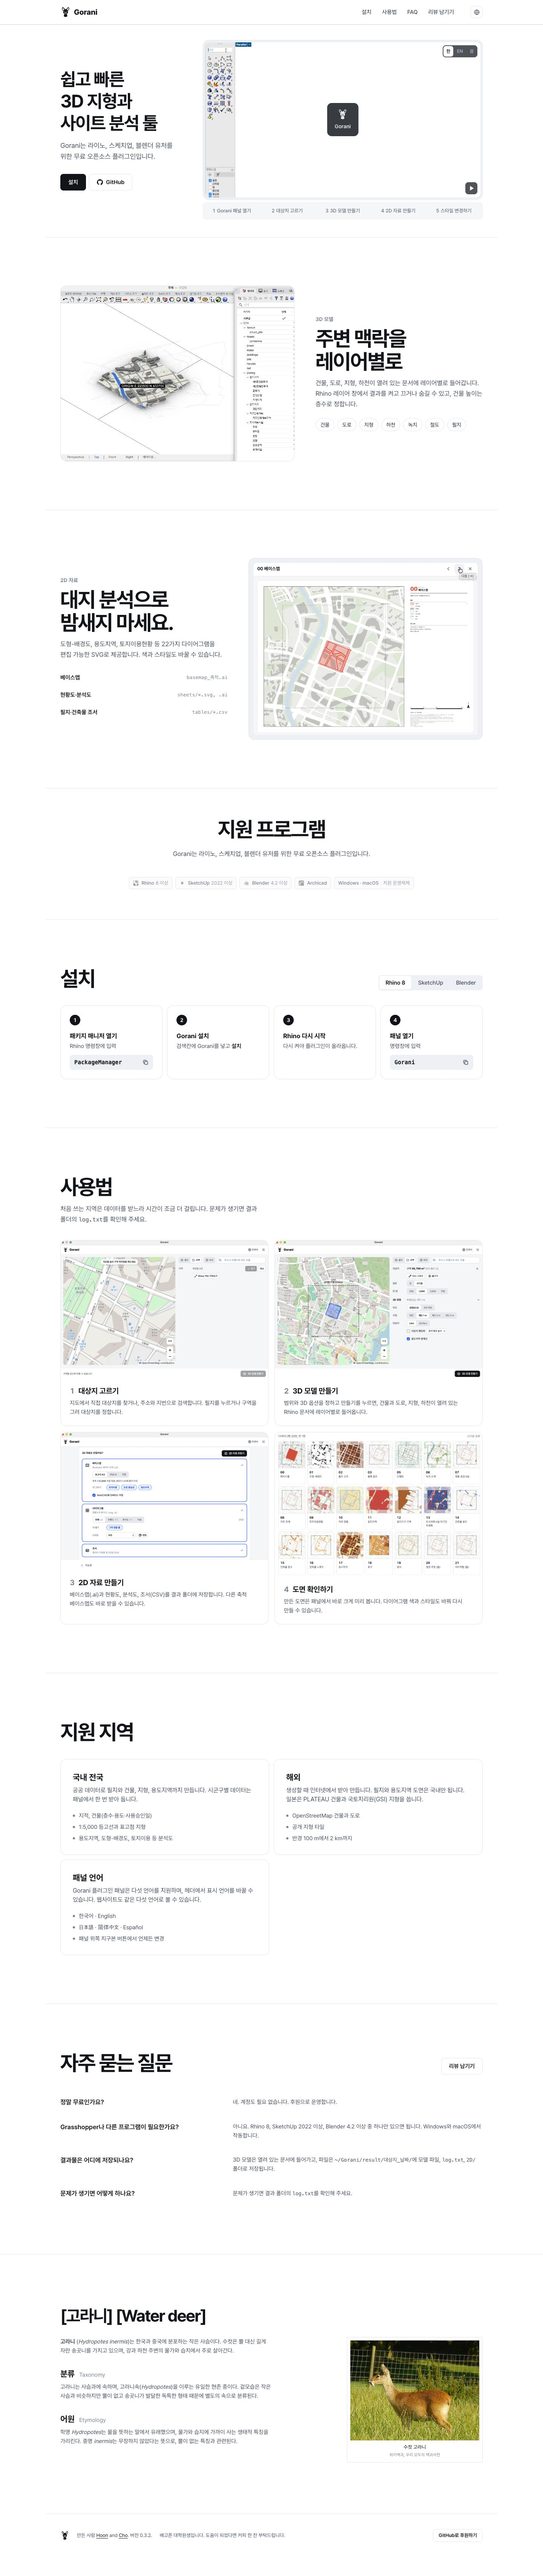
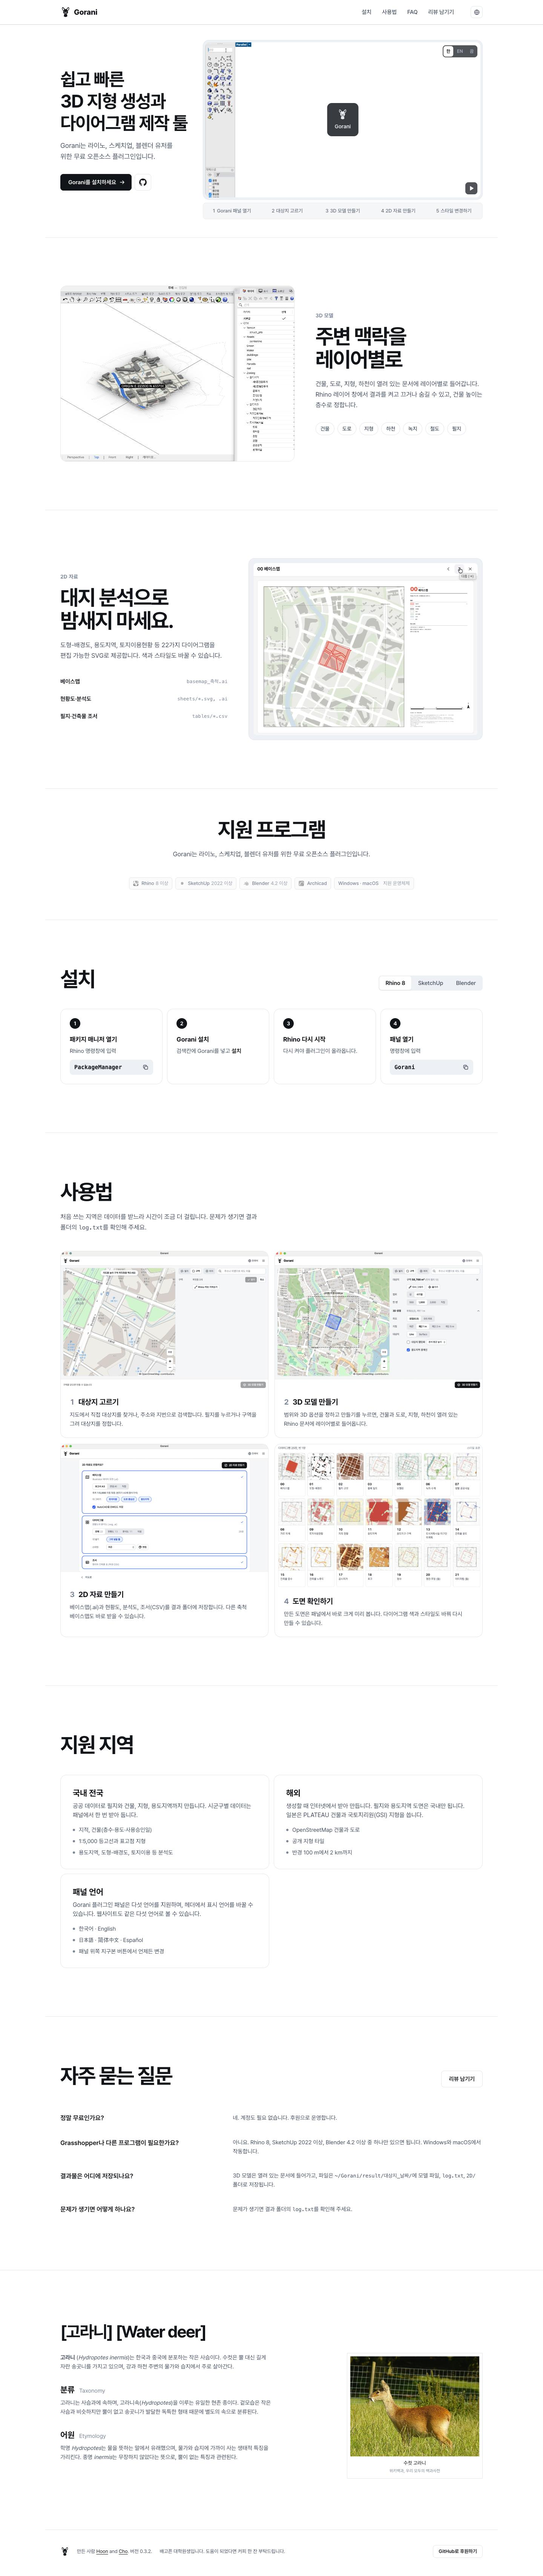
Hero 제목·버튼 정리, 본문 글 간격을 한 규칙으로
- 제목 "쉽고 빠른 3D 지형 생성과 다이어그램 제작 툴"(다섯 언어). 낱말 덩어리가 끊기지 않게 묶고, 일본어는 전각이라 제목 크기를 조금 줄임
- 설치 버튼 "Gorani를 설치하세요 →"(Install Gorani →), 호버 시 화살표가 3px 움직임(0.18초/0.6초)
- GitHub 버튼은 로고만(aria-label·title로 이름)
- 간격 규칙(4의 배수): 라벨→제목 16, 섹션 제목→부제 20, 부제→태그·목록 32, 섹션 머리→카드 48, 카드 제목→본문 8, 카드 본문→목록 16. 휴대폰은 12/12/24/32/8/16
- PR 스크린샷 다시 찍음

diff --git a/assets/style.css b/assets/style.css
@@ -100,6 +100,8 @@ h1, h2, h3, p, ol, ul, figure { margin: 0; }
 }
 .hero h1 { font-size: 48px; line-height: 58px; font-weight: 800; letter-spacing: -.035em; text-wrap: balance; }
 #hero-title, #install-title { font-weight: 700; }
+.hero h1 .nw { white-space: nowrap; }   /* 낱말 덩어리 안에서 줄이 끊기지 않게 */
+html[lang="ja"] .hero h1 { font-size: 42px; line-height: 52px; }   /* 전각 글자라 같은 크기에서 더 커 보인다 */
 .lead { margin-top: 16px; font-size: 18px; line-height: 29px; color: var(--ink-2); text-wrap: pretty; }
 .story { margin-top: 12px; font-size: 15px; line-height: 24px; color: var(--ink-3); }
 .acts { display: flex; flex-wrap: wrap; gap: 8px; margin-top: 32px; }
@@ -135,8 +137,8 @@ h1, h2, h3, p, ol, ul, figure { margin: 0; }
 /* 지원 프로그램 — onorca.dev "Bring your own agent"처럼 가운데 제목·설명 아래 낮은 칩 한 줄, 마우스를 올리면 빠르게 켜지고 뗄 때 천천히 꺼짐(레퍼런스 곡선) */
 .block.support { padding: 64px 0; text-align: center; }
 .support .block-head { display: block; margin: 0 auto; max-width: 768px; }
-.support .sub { margin: 20px auto 0; max-width: 768px; text-wrap: balance; }
-.support .hosts { justify-content: center; gap: 8px; margin: 40px auto 0; max-width: 1024px; }
+.support .sub { margin-inline: auto; max-width: 768px; text-wrap: balance; }
+.support .hosts { justify-content: center; gap: 8px; margin: 32px auto 0; max-width: 1024px; }
 .support .hosts li { display: contents; }
 .support .hosts .host-link {
   position: relative; display: inline-flex; align-items: center; gap: 8px; height: 32px; padding: 0 10px;
@@ -162,6 +164,10 @@ h1, h2, h3, p, ol, ul, figure { margin: 0; }
 }
 .btn:hover { background: var(--press); text-decoration: none; }
 .btn svg { width: 16px; height: 16px; }
+.btn.icon { width: 44px; padding: 0; justify-content: center; }   /* 로고만 있는 버튼 */
+.btn.icon svg { width: 20px; height: 20px; }
+.btn .i-arrow { margin-right: -4px; transition: transform .6s cubic-bezier(.33,0,.45,1); }
+.btn:hover .i-arrow { transform: translateX(3px); transition-duration: .18s; }   /* 칩·카드와 같은 결 */
 .btn.go { background: var(--ink); border-color: var(--ink); color: var(--on-ink); }
 .btn.go:hover { background: color-mix(in srgb, var(--ink) 86%, var(--paper)); }
 .btn svg { width: 16px; height: 16px; }
@@ -246,10 +252,11 @@ h1, h2, h3, p, ol, ul, figure { margin: 0; }
 .block.soft { background: var(--soft); }
 .block h2 { font-size: clamp(34px, 4vw, 56px); line-height: 1.08; font-weight: 700; letter-spacing: -.045em; }
 .feature h2 { text-wrap: balance; }   /* 두 줄일 때 줄 길이를 고르게 */
-.block-head { display: flex; flex-wrap: wrap; align-items: end; justify-content: space-between; gap: 16px; margin-bottom: 40px; }
+/* 글 간격 규칙(4의 배수): 라벨→제목 16, 섹션 제목→부제 20, 부제→태그·목록 32, 섹션 머리→카드 48, 카드 제목→본문 8, 카드 본문→목록 16 */
+.block-head { display: flex; flex-wrap: wrap; align-items: end; justify-content: space-between; gap: 16px; margin-bottom: 48px; }
 .block-head > .hosts { margin-top: 0; }
-.eyebrow { display: block; margin-bottom: 12px; font-size: 14px; line-height: 20px; font-weight: 700; color: var(--ink-3); letter-spacing: .02em; }
-.sub { margin-top: 12px; max-width: 560px; font-size: 17px; line-height: 28px; color: var(--ink-2); }
+.eyebrow { display: block; margin-bottom: 16px; font-size: 14px; line-height: 20px; font-weight: 700; color: var(--ink-3); letter-spacing: .02em; }
+.sub { margin-top: 20px; max-width: 560px; font-size: 17px; line-height: 28px; color: var(--ink-2); }
 
 /* 기능: 패널 화면 + 설명(좌우), 2D는 좌우를 바꾼다 */
 .feature { display: grid; grid-template-columns: minmax(0, 7fr) minmax(0, 5fr); gap: 56px; align-items: center; }
@@ -260,9 +267,9 @@ h1, h2, h3, p, ol, ul, figure { margin: 0; }
 .shot img { width: 100%; aspect-ratio: 4 / 3; object-fit: cover; }
 .media-stack { display: grid; gap: 12px; padding: 12px; }
 .media-stack video, .media-stack img { width: 100%; height: auto; aspect-ratio: auto; object-fit: contain; border-radius: 10px; background: var(--surface); }
-.tags { display: flex; flex-wrap: wrap; gap: 8px; margin-top: 24px; padding: 0; list-style: none; }
+.tags { display: flex; flex-wrap: wrap; gap: 8px; margin-top: 32px; padding: 0; list-style: none; }
 .tags li { font-size: 14px; line-height: 20px; font-weight: 500; padding: 6px 12px; border-radius: 999px; border: 1px solid var(--hair); color: var(--ink-2); background: var(--surface); }
-.files { margin-top: 24px; padding: 0; list-style: none; }
+.files { margin-top: 32px; padding: 0; list-style: none; }
 .files li { display: flex; justify-content: space-between; gap: 16px; padding: 12px 0; font-size: 15px; line-height: 22px; color: var(--ink-2); }
 .files b { font-weight: 600; color: var(--ink); }
 .files code { color: var(--ink-3); font-size: 13px; white-space: nowrap; }
@@ -275,7 +282,7 @@ h1, h2, h3, p, ol, ul, figure { margin: 0; }
 .usage div { padding: 20px 24px 24px; }
 .usage h3 { font-size: 20px; line-height: 28px; font-weight: 700; letter-spacing: -.01em; }
 .usage h3 b { color: var(--ink-3); font-weight: 700; margin-right: 10px; font-variant-numeric: tabular-nums; }
-.usage p { margin-top: 6px; font-size: 15px; line-height: 24px; color: var(--ink-2); }
+.usage p { margin-top: 8px; font-size: 15px; line-height: 24px; color: var(--ink-2); }
 
 /* 레퍼런스의 조용한 진입 모션: 스크립트가 켜진 경우에만 초기 상태를 숨긴다. */
 body.motion-ready .reveal { opacity: 0; transform: translateY(28px); transition: opacity .7s ease, transform .7s cubic-bezier(.2,.8,.2,1); }
@@ -292,7 +299,7 @@ body.motion-ready .reveal:nth-child(3) { transition-delay: .16s; }
 .coverage article { padding: 32px; border-radius: 16px; background: var(--surface); border: 1px solid var(--hair); }
 .coverage h3 { font-size: 22px; line-height: 30px; font-weight: 700; }
 .coverage p { margin-top: 8px; color: var(--ink-2); }
-.coverage ul { margin-top: 20px; padding: 0; list-style: none; display: grid; gap: 8px; font-size: 15px; line-height: 22px; color: var(--ink-2); }
+.coverage ul { margin-top: 16px; padding: 0; list-style: none; display: grid; gap: 8px; font-size: 15px; line-height: 22px; color: var(--ink-2); }
 .coverage li::before { content: ""; display: inline-block; width: 6px; height: 6px; margin: 0 10px 2px 0; border-radius: 999px; background: var(--ink-3); }
 
 /* FAQ: 얇은 선 아코디언 */
@@ -317,7 +324,7 @@ body.motion-ready .reveal:nth-child(3) { transition-delay: .16s; }
   border-radius: 999px; background: var(--ink); color: var(--on-ink); font-weight: 700; font-size: 14px;
 }
 .steps h3 { font-size: 17px; line-height: 24px; font-weight: 700; }
-.steps p { margin-top: 4px; font-size: 15px; line-height: 22px; color: var(--ink-2); }
+.steps p { margin-top: 8px; font-size: 15px; line-height: 22px; color: var(--ink-2); }
 .cmd {
   display: flex; align-items: center; justify-content: space-between; gap: 8px; margin-top: 12px;
   height: 40px; padding: 0 4px 0 12px; border-radius: 8px; background: var(--press);
@@ -368,8 +375,10 @@ body.motion-ready .reveal:nth-child(3) { transition-delay: .16s; }
   .language-switch { margin-left: auto; }
   .hero { padding-top: 40px; }
   .hero h1 { font-size: 34px; line-height: 42px; }
+  html[lang="ja"] .hero h1 { font-size: 30px; line-height: 40px; }
   .lead { font-size: 17px; line-height: 28px; }
   .acts .btn { flex: 1 1 auto; justify-content: center; }
+  .acts .btn.icon { flex: 0 0 44px; }
   .wrap, .hero-wrap, .top .wrap { width: min(1120px, 100% - 24px); }
   .device { padding: 4px; border-radius: 12px; }
   .screen { border-radius: 9px; }
@@ -380,7 +389,10 @@ body.motion-ready .reveal:nth-child(3) { transition-delay: .16s; }
   .chapters b { display: inline; }
   .block { padding: 56px 0; }
   .block h2, .final h2 { font-size: 26px; line-height: 34px; }
-  .block-head { margin-bottom: 24px; }
+  .block-head { margin-bottom: 32px; }
+  .eyebrow { margin-bottom: 12px; }
+  .sub { margin-top: 12px; }
+  .tags, .files { margin-top: 24px; }
   .usage { grid-template-columns: 1fr; }
   .usage div { padding: 16px 20px 20px; }
   .coverage { grid-template-columns: 1fr; }
@@ -396,4 +408,5 @@ body.motion-ready .reveal:nth-child(3) { transition-delay: .16s; }
 @media (prefers-reduced-motion: reduce) {
   html { scroll-behavior: auto; }
   .run.go, .btn:hover .run { animation: none; }
+  .btn .i-arrow { transition: none; }
 }

diff --git a/ja/index.html b/ja/index.html
@@ -77,6 +77,7 @@
   <symbol id="i-play" viewBox="0 0 16 16"><path d="M4.5 2.8v10.4a.6.6 0 0 0 .9.5l8.2-5.2a.6.6 0 0 0 0-1L5.4 2.3a.6.6 0 0 0-.9.5z" fill="currentColor"/></symbol>
   <symbol id="i-pause" viewBox="0 0 16 16"><rect x="3.5" y="2.5" width="3" height="11" rx="1" fill="currentColor"/><rect x="9.5" y="2.5" width="3" height="11" rx="1" fill="currentColor"/></symbol>
   <symbol id="i-globe" viewBox="0 0 16 16"><circle cx="8" cy="8" r="5.75" fill="none" stroke="currentColor" stroke-width="1.25"/><path d="M2.5 8h11M8 2.25c1.55 1.55 2.25 3.35 2.25 5.75S9.55 12.2 8 13.75C6.45 12.2 5.75 10.4 5.75 8S6.45 3.8 8 2.25Z" fill="none" stroke="currentColor" stroke-width="1.1"/></symbol>
+  <symbol id="i-arrow" viewBox="0 0 16 16"><path d="M3 8h10M9 4l4 4-4 4" fill="none" stroke="currentColor" stroke-width="1.5" stroke-linecap="round" stroke-linejoin="round"/></symbol>
   <symbol id="i-github" viewBox="0 0 16 16"><path fill="currentColor" d="M8 0C3.58 0 0 3.58 0 8c0 3.54 2.29 6.53 5.47 7.59.4.07.55-.17.55-.38 0-.19-.01-.82-.01-1.49-2.01.37-2.53-.49-2.69-.94-.09-.23-.48-.94-.82-1.13-.28-.15-.68-.52-.01-.53.63-.01 1.08.58 1.23.82.72 1.21 1.87.87 2.33.66.07-.52.28-.87.51-1.07-1.78-.2-3.64-.89-3.64-3.95 0-.87.31-1.59.82-2.15-.08-.2-.36-1.02.08-2.12 0 0 .67-.21 2.2.82.64-.18 1.32-.27 2-.27.68 0 1.36.09 2 .27 1.53-1.04 2.2-.82 2.2-.82.44 1.1.16 1.92.08 2.12.51.56.82 1.27.82 2.15 0 3.07-1.87 3.75-3.65 3.95.29.25.54.73.54 1.48 0 1.07-.01 1.93-.01 2.2 0 .21.15.46.55.38A8.013 8.013 0 0016 8c0-4.42-3.58-8-8-8z"/></symbol>
 </svg>
 
@@ -107,11 +108,11 @@
   <div class="wrap hero-wrap">
     <section class="hero" aria-labelledby="hero-title">
       <div class="hero-text">
-        <h1 id="hero-title">かんたん・すばやく3D地形とサイト分析</h1>
+        <h1 id="hero-title"><span class="nw">3D地形と</span><span class="nw">ダイアグラムを、</span><span class="nw">すばやく作成</span></h1>
         <p class="lead">Goraniは、Rhino・SketchUp・Blenderユーザーのための無料オープンソースプラグインです。</p>
         <div class="acts">
-          <a class="btn go" href="#install">インストール</a>
-          <a class="btn" href="https://github.com/969flash/gorani"><svg aria-hidden="true"><use href="#i-github"/></svg>GitHub</a>
+          <a class="btn go" href="#install">Goraniをインストール<svg class="i-arrow" aria-hidden="true"><use href="#i-arrow"/></svg></a>
+          <a class="btn icon" href="https://github.com/969flash/gorani" aria-label="GitHub" title="GitHub"><svg aria-hidden="true"><use href="#i-github"/></svg></a>
         </div>
       </div>
 

diff --git a/index.html b/index.html
@@ -77,6 +77,7 @@
   <symbol id="i-play" viewBox="0 0 16 16"><path d="M4.5 2.8v10.4a.6.6 0 0 0 .9.5l8.2-5.2a.6.6 0 0 0 0-1L5.4 2.3a.6.6 0 0 0-.9.5z" fill="currentColor"/></symbol>
   <symbol id="i-pause" viewBox="0 0 16 16"><rect x="3.5" y="2.5" width="3" height="11" rx="1" fill="currentColor"/><rect x="9.5" y="2.5" width="3" height="11" rx="1" fill="currentColor"/></symbol>
   <symbol id="i-globe" viewBox="0 0 16 16"><circle cx="8" cy="8" r="5.75" fill="none" stroke="currentColor" stroke-width="1.25"/><path d="M2.5 8h11M8 2.25c1.55 1.55 2.25 3.35 2.25 5.75S9.55 12.2 8 13.75C6.45 12.2 5.75 10.4 5.75 8S6.45 3.8 8 2.25Z" fill="none" stroke="currentColor" stroke-width="1.1"/></symbol>
+  <symbol id="i-arrow" viewBox="0 0 16 16"><path d="M3 8h10M9 4l4 4-4 4" fill="none" stroke="currentColor" stroke-width="1.5" stroke-linecap="round" stroke-linejoin="round"/></symbol>
   <symbol id="i-github" viewBox="0 0 16 16"><path fill="currentColor" d="M8 0C3.58 0 0 3.58 0 8c0 3.54 2.29 6.53 5.47 7.59.4.07.55-.17.55-.38 0-.19-.01-.82-.01-1.49-2.01.37-2.53-.49-2.69-.94-.09-.23-.48-.94-.82-1.13-.28-.15-.68-.52-.01-.53.63-.01 1.08.58 1.23.82.72 1.21 1.87.87 2.33.66.07-.52.28-.87.51-1.07-1.78-.2-3.64-.89-3.64-3.95 0-.87.31-1.59.82-2.15-.08-.2-.36-1.02.08-2.12 0 0 .67-.21 2.2.82.64-.18 1.32-.27 2-.27.68 0 1.36.09 2 .27 1.53-1.04 2.2-.82 2.2-.82.44 1.1.16 1.92.08 2.12.51.56.82 1.27.82 2.15 0 3.07-1.87 3.75-3.65 3.95.29.25.54.73.54 1.48 0 1.07-.01 1.93-.01 2.2 0 .21.15.46.55.38A8.013 8.013 0 0016 8c0-4.42-3.58-8-8-8z"/></symbol>
 </svg>
 
@@ -107,11 +108,11 @@
   <div class="wrap hero-wrap">
     <section class="hero" aria-labelledby="hero-title">
       <div class="hero-text">
-        <h1 id="hero-title">쉽고 빠른 3D 지형과 사이트 분석 툴</h1>
+        <h1 id="hero-title">쉽고 빠른 <span class="nw">3D 지형 생성과</span> <span class="nw">다이어그램 제작 툴</span></h1>
         <p class="lead">Gorani는 라이노, 스케치업, 블렌더 유저를 위한 무료 오픈소스 플러그인입니다.</p>
         <div class="acts">
-          <a class="btn go" href="#install">설치</a>
-          <a class="btn" href="https://github.com/969flash/gorani"><svg aria-hidden="true"><use href="#i-github"/></svg>GitHub</a>
+          <a class="btn go" href="#install">Gorani를 설치하세요<svg class="i-arrow" aria-hidden="true"><use href="#i-arrow"/></svg></a>
+          <a class="btn icon" href="https://github.com/969flash/gorani" aria-label="GitHub" title="GitHub"><svg aria-hidden="true"><use href="#i-github"/></svg></a>
         </div>
       </div>
 

diff --git a/es/index.html b/es/index.html
@@ -77,6 +77,7 @@
   <symbol id="i-play" viewBox="0 0 16 16"><path d="M4.5 2.8v10.4a.6.6 0 0 0 .9.5l8.2-5.2a.6.6 0 0 0 0-1L5.4 2.3a.6.6 0 0 0-.9.5z" fill="currentColor"/></symbol>
   <symbol id="i-pause" viewBox="0 0 16 16"><rect x="3.5" y="2.5" width="3" height="11" rx="1" fill="currentColor"/><rect x="9.5" y="2.5" width="3" height="11" rx="1" fill="currentColor"/></symbol>
   <symbol id="i-globe" viewBox="0 0 16 16"><circle cx="8" cy="8" r="5.75" fill="none" stroke="currentColor" stroke-width="1.25"/><path d="M2.5 8h11M8 2.25c1.55 1.55 2.25 3.35 2.25 5.75S9.55 12.2 8 13.75C6.45 12.2 5.75 10.4 5.75 8S6.45 3.8 8 2.25Z" fill="none" stroke="currentColor" stroke-width="1.1"/></symbol>
+  <symbol id="i-arrow" viewBox="0 0 16 16"><path d="M3 8h10M9 4l4 4-4 4" fill="none" stroke="currentColor" stroke-width="1.5" stroke-linecap="round" stroke-linejoin="round"/></symbol>
   <symbol id="i-github" viewBox="0 0 16 16"><path fill="currentColor" d="M8 0C3.58 0 0 3.58 0 8c0 3.54 2.29 6.53 5.47 7.59.4.07.55-.17.55-.38 0-.19-.01-.82-.01-1.49-2.01.37-2.53-.49-2.69-.94-.09-.23-.48-.94-.82-1.13-.28-.15-.68-.52-.01-.53.63-.01 1.08.58 1.23.82.72 1.21 1.87.87 2.33.66.07-.52.28-.87.51-1.07-1.78-.2-3.64-.89-3.64-3.95 0-.87.31-1.59.82-2.15-.08-.2-.36-1.02.08-2.12 0 0 .67-.21 2.2.82.64-.18 1.32-.27 2-.27.68 0 1.36.09 2 .27 1.53-1.04 2.2-.82 2.2-.82.44 1.1.16 1.92.08 2.12.51.56.82 1.27.82 2.15 0 3.07-1.87 3.75-3.65 3.95.29.25.54.73.54 1.48 0 1.07-.01 1.93-.01 2.2 0 .21.15.46.55.38A8.013 8.013 0 0016 8c0-4.42-3.58-8-8-8z"/></symbol>
 </svg>
 
@@ -107,11 +108,11 @@
   <div class="wrap hero-wrap">
     <section class="hero" aria-labelledby="hero-title">
       <div class="hero-text">
-        <h1 id="hero-title">Terreno 3D y análisis del sitio, fácil y rápido</h1>
+        <h1 id="hero-title">Terreno 3D y diagramas, fácil y rápido</h1>
         <p class="lead">Gorani es un plugin gratuito y de código abierto para usuarios de Rhino, SketchUp y Blender.</p>
         <div class="acts">
-          <a class="btn go" href="#install">Instalar</a>
-          <a class="btn" href="https://github.com/969flash/gorani"><svg aria-hidden="true"><use href="#i-github"/></svg>GitHub</a>
+          <a class="btn go" href="#install">Instala Gorani<svg class="i-arrow" aria-hidden="true"><use href="#i-arrow"/></svg></a>
+          <a class="btn icon" href="https://github.com/969flash/gorani" aria-label="GitHub" title="GitHub"><svg aria-hidden="true"><use href="#i-github"/></svg></a>
         </div>
       </div>
 

diff --git a/zh/index.html b/zh/index.html
@@ -77,6 +77,7 @@
   <symbol id="i-play" viewBox="0 0 16 16"><path d="M4.5 2.8v10.4a.6.6 0 0 0 .9.5l8.2-5.2a.6.6 0 0 0 0-1L5.4 2.3a.6.6 0 0 0-.9.5z" fill="currentColor"/></symbol>
   <symbol id="i-pause" viewBox="0 0 16 16"><rect x="3.5" y="2.5" width="3" height="11" rx="1" fill="currentColor"/><rect x="9.5" y="2.5" width="3" height="11" rx="1" fill="currentColor"/></symbol>
   <symbol id="i-globe" viewBox="0 0 16 16"><circle cx="8" cy="8" r="5.75" fill="none" stroke="currentColor" stroke-width="1.25"/><path d="M2.5 8h11M8 2.25c1.55 1.55 2.25 3.35 2.25 5.75S9.55 12.2 8 13.75C6.45 12.2 5.75 10.4 5.75 8S6.45 3.8 8 2.25Z" fill="none" stroke="currentColor" stroke-width="1.1"/></symbol>
+  <symbol id="i-arrow" viewBox="0 0 16 16"><path d="M3 8h10M9 4l4 4-4 4" fill="none" stroke="currentColor" stroke-width="1.5" stroke-linecap="round" stroke-linejoin="round"/></symbol>
   <symbol id="i-github" viewBox="0 0 16 16"><path fill="currentColor" d="M8 0C3.58 0 0 3.58 0 8c0 3.54 2.29 6.53 5.47 7.59.4.07.55-.17.55-.38 0-.19-.01-.82-.01-1.49-2.01.37-2.53-.49-2.69-.94-.09-.23-.48-.94-.82-1.13-.28-.15-.68-.52-.01-.53.63-.01 1.08.58 1.23.82.72 1.21 1.87.87 2.33.66.07-.52.28-.87.51-1.07-1.78-.2-3.64-.89-3.64-3.95 0-.87.31-1.59.82-2.15-.08-.2-.36-1.02.08-2.12 0 0 .67-.21 2.2.82.64-.18 1.32-.27 2-.27.68 0 1.36.09 2 .27 1.53-1.04 2.2-.82 2.2-.82.44 1.1.16 1.92.08 2.12.51.56.82 1.27.82 2.15 0 3.07-1.87 3.75-3.65 3.95.29.25.54.73.54 1.48 0 1.07-.01 1.93-.01 2.2 0 .21.15.46.55.38A8.013 8.013 0 0016 8c0-4.42-3.58-8-8-8z"/></symbol>
 </svg>
 
@@ -107,11 +108,11 @@
   <div class="wrap hero-wrap">
     <section class="hero" aria-labelledby="hero-title">
       <div class="hero-text">
-        <h1 id="hero-title">简单快速的3D地形与场地分析工具</h1>
+        <h1 id="hero-title">简单快速的3D地形生成与图表制作工具</h1>
         <p class="lead">Gorani 是面向 Rhino、SketchUp 和 Blender 用户的免费开源插件。</p>
         <div class="acts">
-          <a class="btn go" href="#install">安装</a>
-          <a class="btn" href="https://github.com/969flash/gorani"><svg aria-hidden="true"><use href="#i-github"/></svg>GitHub</a>
+          <a class="btn go" href="#install">安装 Gorani<svg class="i-arrow" aria-hidden="true"><use href="#i-arrow"/></svg></a>
+          <a class="btn icon" href="https://github.com/969flash/gorani" aria-label="GitHub" title="GitHub"><svg aria-hidden="true"><use href="#i-github"/></svg></a>
         </div>
       </div>
 

diff --git a/en/index.html b/en/index.html
@@ -77,6 +77,7 @@
   <symbol id="i-play" viewBox="0 0 16 16"><path d="M4.5 2.8v10.4a.6.6 0 0 0 .9.5l8.2-5.2a.6.6 0 0 0 0-1L5.4 2.3a.6.6 0 0 0-.9.5z" fill="currentColor"/></symbol>
   <symbol id="i-pause" viewBox="0 0 16 16"><rect x="3.5" y="2.5" width="3" height="11" rx="1" fill="currentColor"/><rect x="9.5" y="2.5" width="3" height="11" rx="1" fill="currentColor"/></symbol>
   <symbol id="i-globe" viewBox="0 0 16 16"><circle cx="8" cy="8" r="5.75" fill="none" stroke="currentColor" stroke-width="1.25"/><path d="M2.5 8h11M8 2.25c1.55 1.55 2.25 3.35 2.25 5.75S9.55 12.2 8 13.75C6.45 12.2 5.75 10.4 5.75 8S6.45 3.8 8 2.25Z" fill="none" stroke="currentColor" stroke-width="1.1"/></symbol>
+  <symbol id="i-arrow" viewBox="0 0 16 16"><path d="M3 8h10M9 4l4 4-4 4" fill="none" stroke="currentColor" stroke-width="1.5" stroke-linecap="round" stroke-linejoin="round"/></symbol>
   <symbol id="i-github" viewBox="0 0 16 16"><path fill="currentColor" d="M8 0C3.58 0 0 3.58 0 8c0 3.54 2.29 6.53 5.47 7.59.4.07.55-.17.55-.38 0-.19-.01-.82-.01-1.49-2.01.37-2.53-.49-2.69-.94-.09-.23-.48-.94-.82-1.13-.28-.15-.68-.52-.01-.53.63-.01 1.08.58 1.23.82.72 1.21 1.87.87 2.33.66.07-.52.28-.87.51-1.07-1.78-.2-3.64-.89-3.64-3.95 0-.87.31-1.59.82-2.15-.08-.2-.36-1.02.08-2.12 0 0 .67-.21 2.2.82.64-.18 1.32-.27 2-.27.68 0 1.36.09 2 .27 1.53-1.04 2.2-.82 2.2-.82.44 1.1.16 1.92.08 2.12.51.56.82 1.27.82 2.15 0 3.07-1.87 3.75-3.65 3.95.29.25.54.73.54 1.48 0 1.07-.01 1.93-.01 2.2 0 .21.15.46.55.38A8.013 8.013 0 0016 8c0-4.42-3.58-8-8-8z"/></symbol>
 </svg>
 
@@ -107,11 +108,11 @@
   <div class="wrap hero-wrap">
     <section class="hero" aria-labelledby="hero-title">
       <div class="hero-text">
-        <h1 id="hero-title">Easy, fast 3D terrain and site analysis</h1>
+        <h1 id="hero-title">Easy, fast 3D terrain and diagram maker</h1>
         <p class="lead">Gorani is a free, open-source plugin for Rhino, SketchUp, and Blender users.</p>
         <div class="acts">
-          <a class="btn go" href="#install">Install</a>
-          <a class="btn" href="https://github.com/969flash/gorani"><svg aria-hidden="true"><use href="#i-github"/></svg>GitHub</a>
+          <a class="btn go" href="#install">Install Gorani<svg class="i-arrow" aria-hidden="true"><use href="#i-arrow"/></svg></a>
+          <a class="btn icon" href="https://github.com/969flash/gorani" aria-label="GitHub" title="GitHub"><svg aria-hidden="true"><use href="#i-github"/></svg></a>
         </div>
       </div>
 
